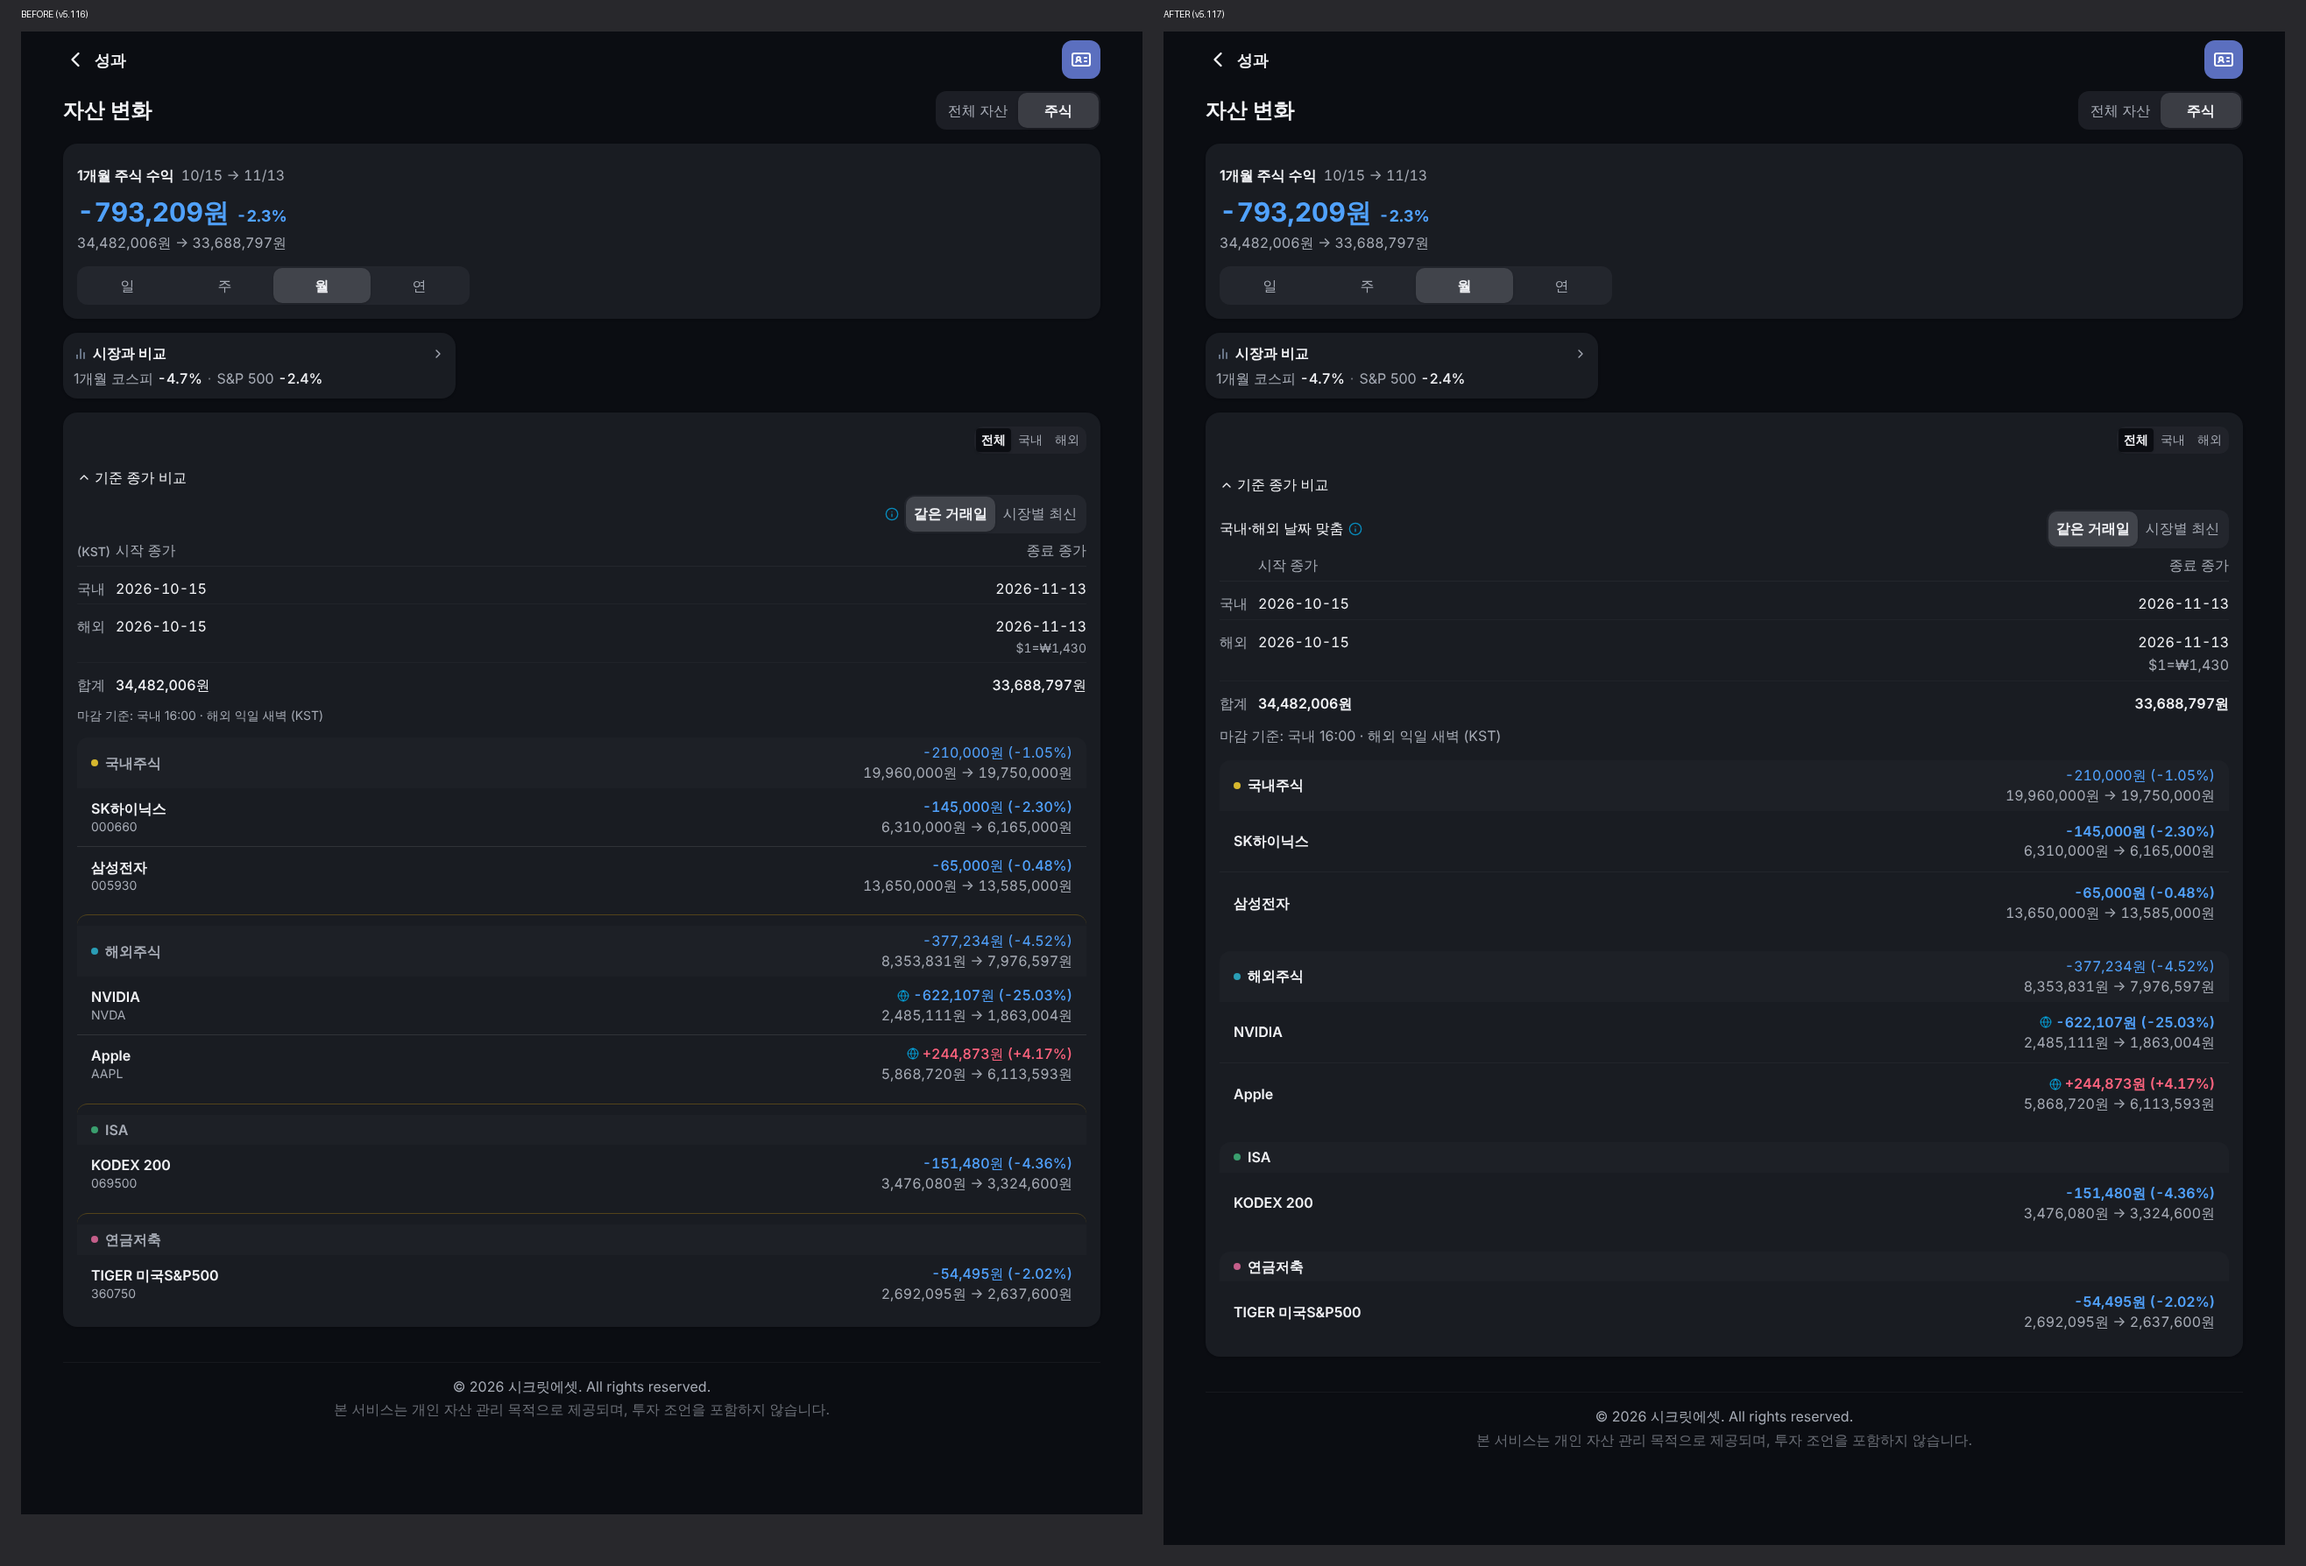
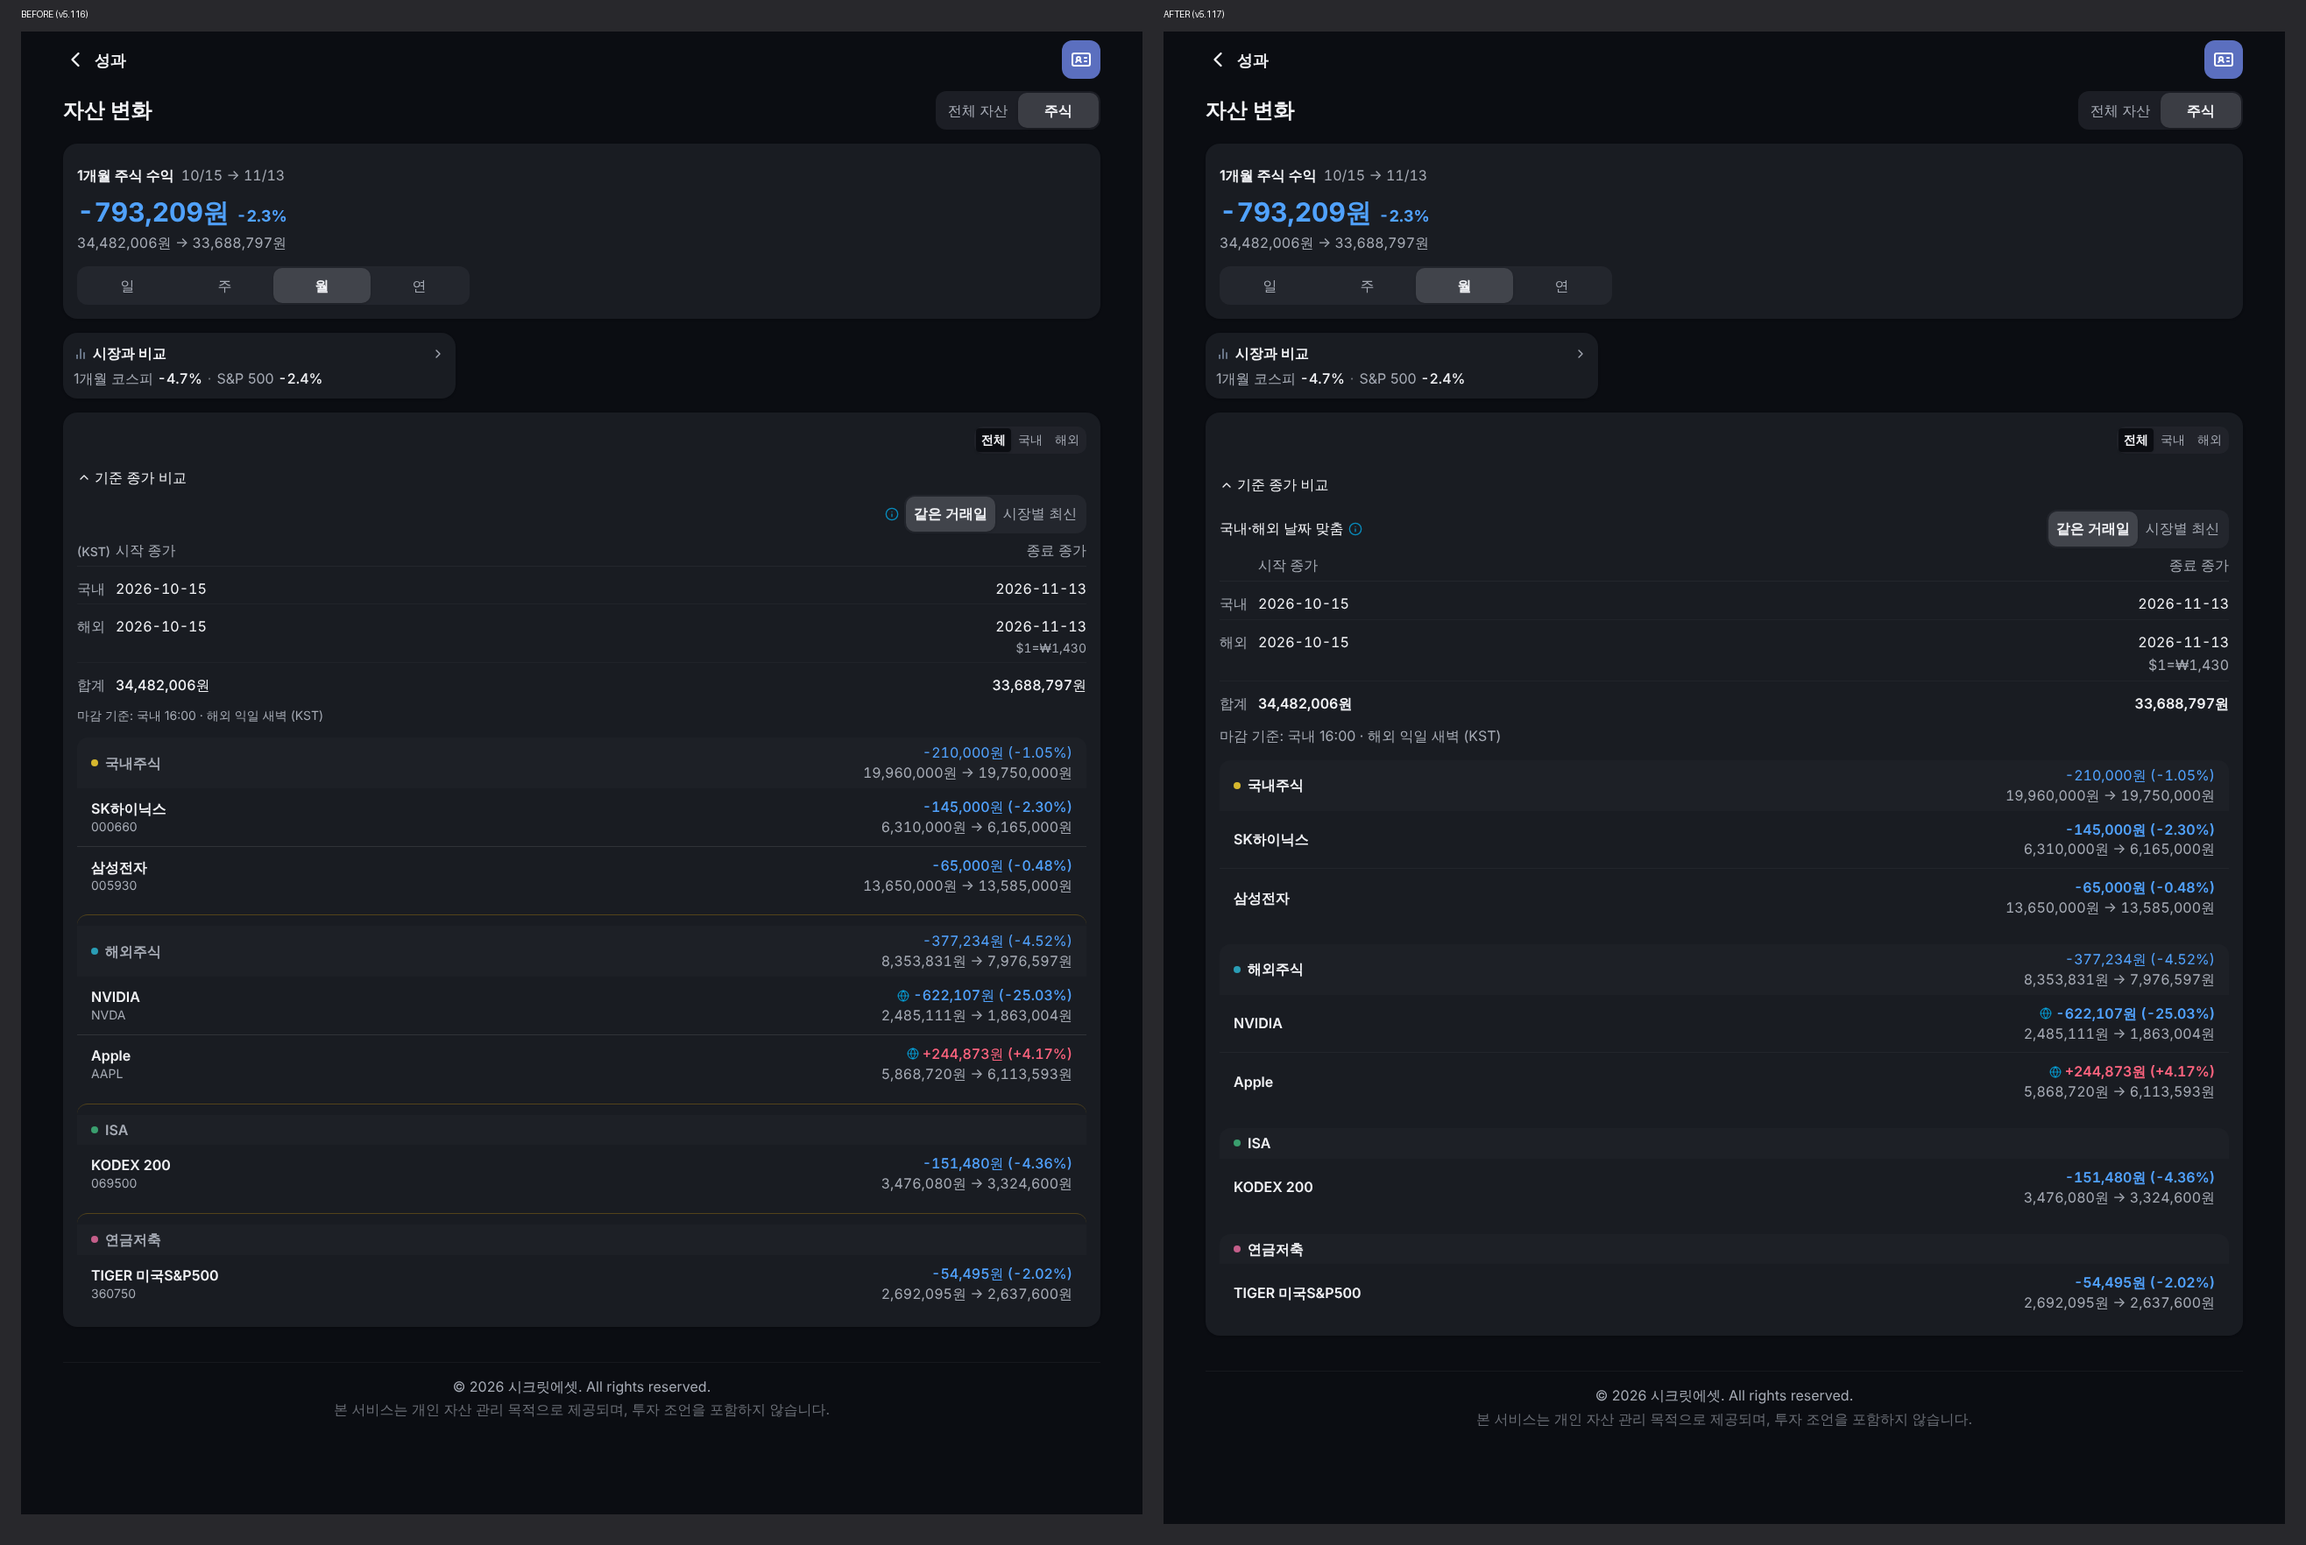
memory: #224 UI 승인(12860bd)·비교 이미지 갱신

diff --git a/issues/5.117-224-stock-change-legibility/5.117-ui-review.md b/issues/5.117-224-stock-change-legibility/5.117-ui-review.md
@@ -32,3 +32,5 @@
 
 ## 사양 외 관찰(수정 요청 아님)
 - 430 이하 2열에서 `TIGER 미국S&P500`이 400에서 `…`로 잘림(값 줄은 온전). 기존에도 있던 truncate 동작이라 수용(R1로 400대 전환 후에는 스택 구간이 늘어 완화).
+
+## 3차 (증분) — **UI 승인**(12860bd): 행 `py-3 min-[400px]:py-2.5`, 1280 after 재촬영(`after2-1280-dark.png`)·`compare-1280-dark.png` 갱신, 1280 행 높이 운영과 동일 확인, 토스트·PREVIEW 배지 없음.
